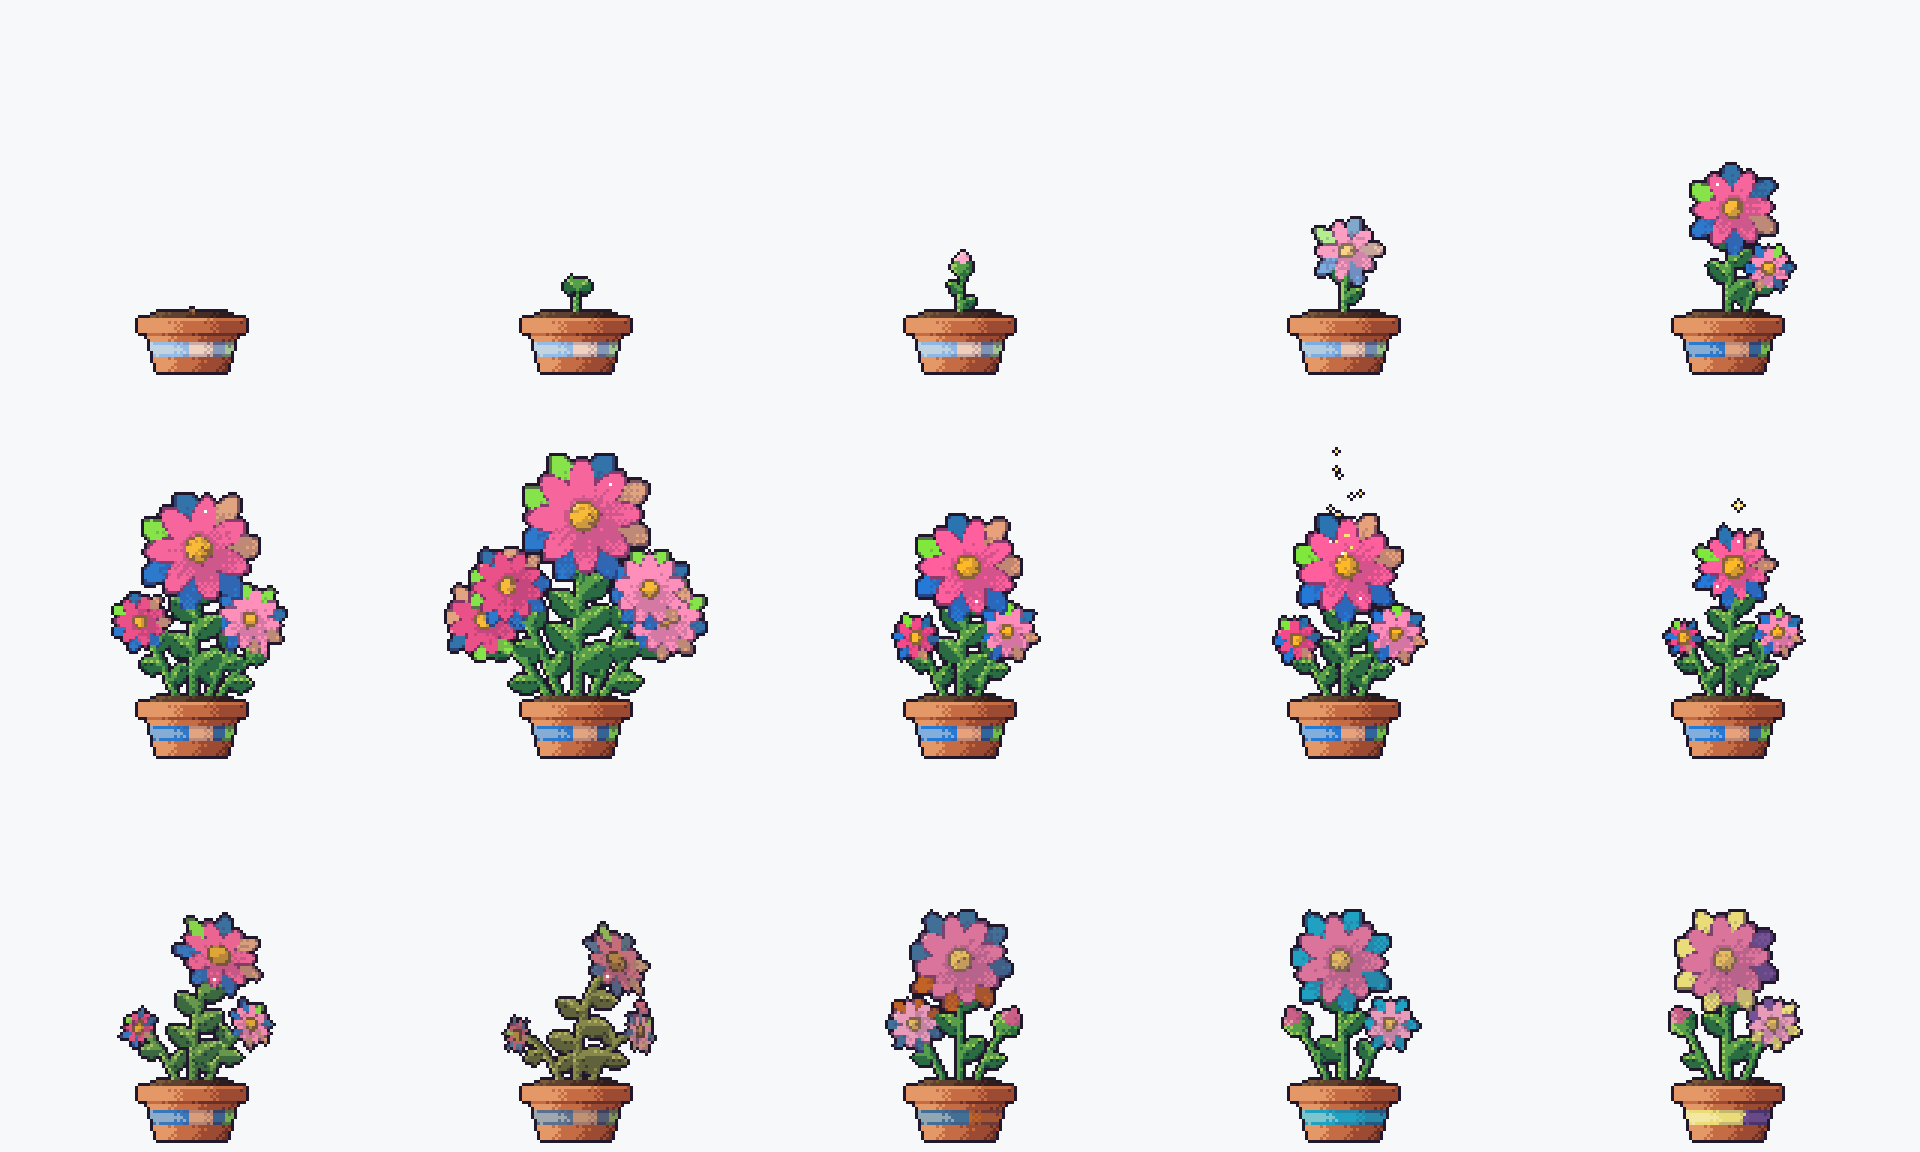
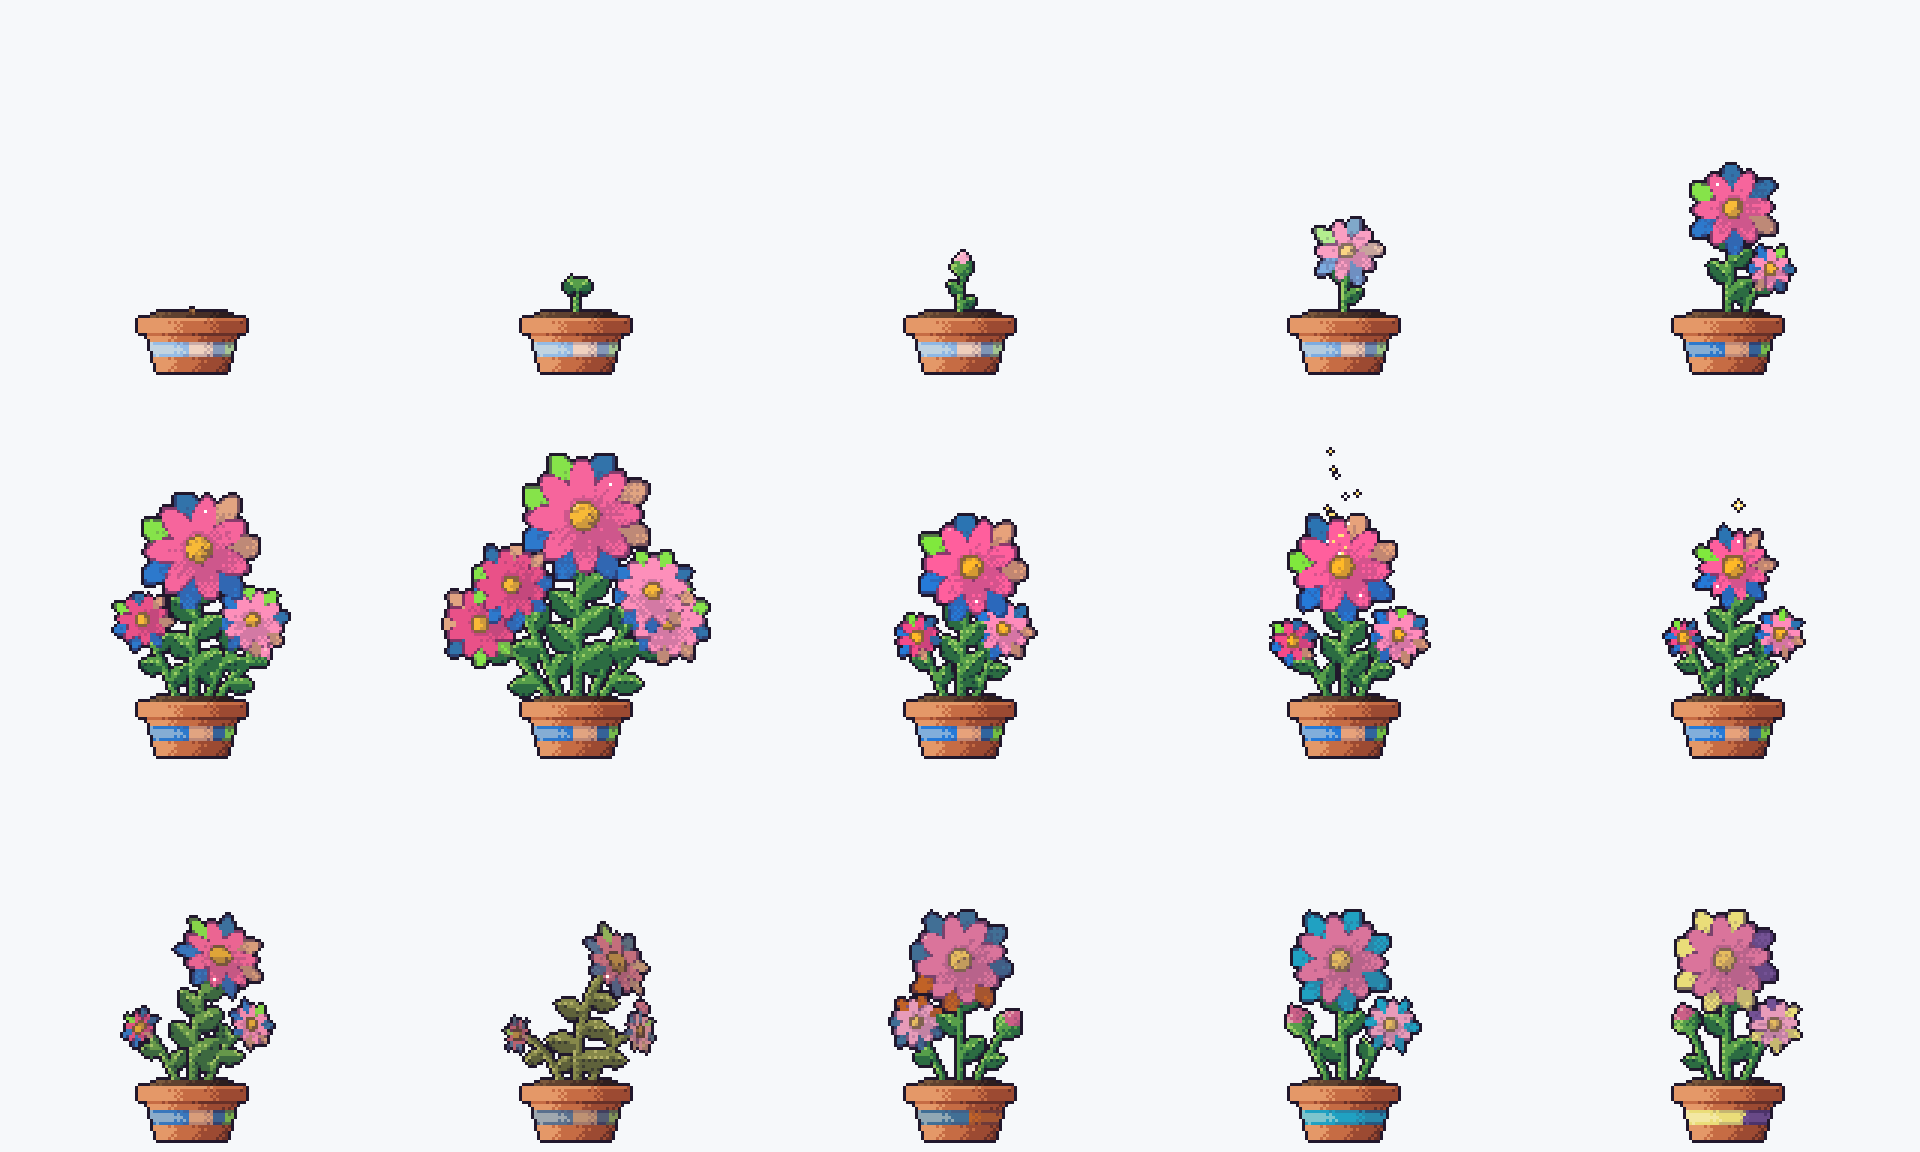
Sway harder, so the motion shows at README size

diff --git a/src/render.rs b/src/render.rs
@@ -392,18 +392,21 @@ impl Pose {
         let time = f64::from(frame_index % frames) / f64::from(frames);
         let shifted = f64::from((frame_index + phase_frames) % frames) / f64::from(frames);
         let wave = |cycles: f64| (TAU * cycles * shifted).sin();
+        // Two swings per loop with a quicker ripple on top, so the stems bend like
+        // they are catching gusts rather than ticking like a metronome.
+        let gusty = wave(2.0) + 0.3 * wave(5.0);
         let (sway, droop, openness, wither, spin) = match mood {
-            Mood::Sway => (0.06 * wave(2.0), 0.0, 1.0, 0.0, 0.0),
-            Mood::Burst => (0.10 * wave(3.0), 0.0, 1.0, 0.0, 0.10 * wave(1.0)),
+            Mood::Sway => (0.17 * gusty, 0.0, 1.0, 0.0, 0.05 * wave(3.0)),
+            Mood::Burst => (0.24 * wave(3.0), 0.0, 1.0, 0.0, 0.16 * wave(1.0)),
             Mood::Unfold => (
-                0.03 * wave(2.0),
+                0.09 * gusty,
                 0.0,
                 0.62 + 0.38 * (0.5 + 0.5 * (TAU * shifted).cos()),
                 0.0,
                 0.0,
             ),
-            Mood::Rest => (0.025 * wave(1.0), 0.5, 0.74, 0.25, 0.0),
-            Mood::Wilt => (0.012 * wave(1.0), 0.9, 0.6, 0.75, 0.0),
+            Mood::Rest => (0.06 * wave(1.0), 0.5, 0.74, 0.25, 0.0),
+            Mood::Wilt => (0.03 * wave(1.0), 0.9, 0.6, 0.75, 0.0),
         };
         Self {
             mood,
@@ -468,7 +471,7 @@ impl Scene {
             for side in [-1.0, 1.0] {
                 leaves.push(Leaf {
                     root: head_center,
-                    angle: head_angle + side * (1.05 + 0.08 * pose.flutter + 0.4 * pose.wither),
+                    angle: head_angle + side * (1.05 + 0.2 * pose.flutter + 0.4 * pose.wither),
                     length: lerp(3.0, 6.0, flower.stem_height / 20.0),
                     width: lerp(1.8, 3.4, flower.stem_height / 20.0),
                     round: true,
@@ -487,7 +490,7 @@ impl Scene {
                 leaves.push(Leaf {
                     root: stem[point],
                     angle: angle_at(along)
-                        + side * (0.95 - 0.15 * along + 0.07 * pose.flutter + 0.55 * pose.wither),
+                        + side * (0.95 - 0.15 * along + 0.18 * pose.flutter + 0.55 * pose.wither),
                     length,
                     width: length * 0.36,
                     round: false,

diff --git a/CHANGELOG.md b/CHANGELOG.md
@@ -2,6 +2,10 @@
 
 ## [Unreleased]
 
+- Flowers move more: stems sway about three times as far, in a gusty rhythm
+  rather than a steady tick, petals turn a little with each swing, and leaves
+  flutter wider. Every mood is livelier in proportion.
+
 - A `demo` command writes a looping GIF that grows a flower through every stage
   from made-up activity; the README opens with it.
 
